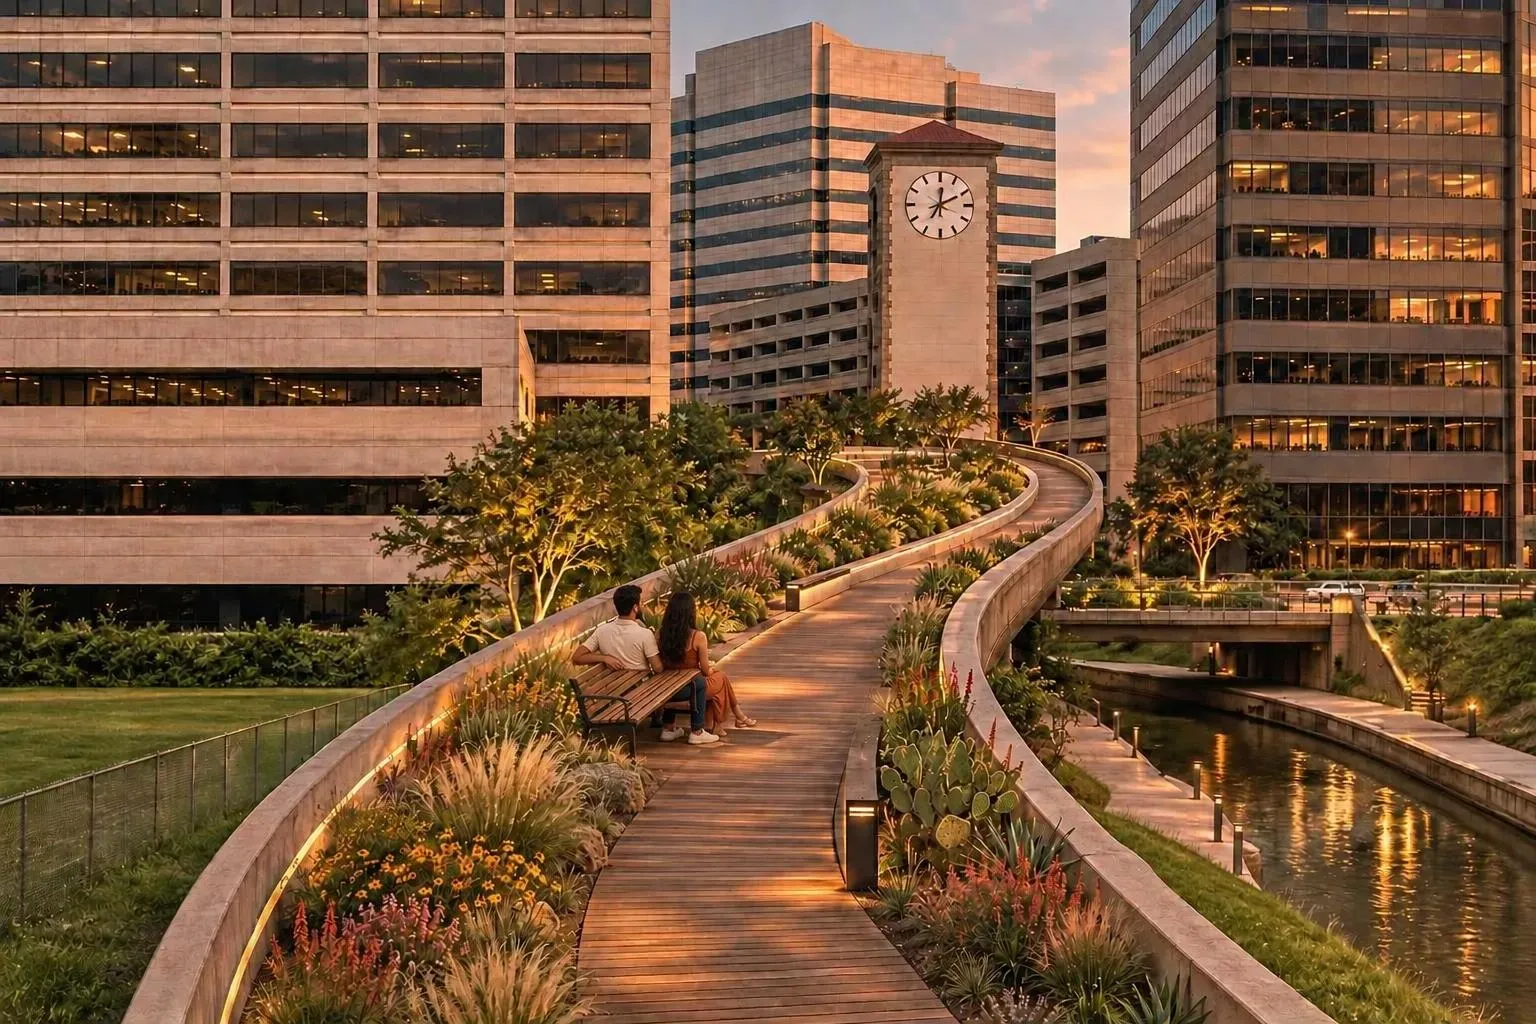
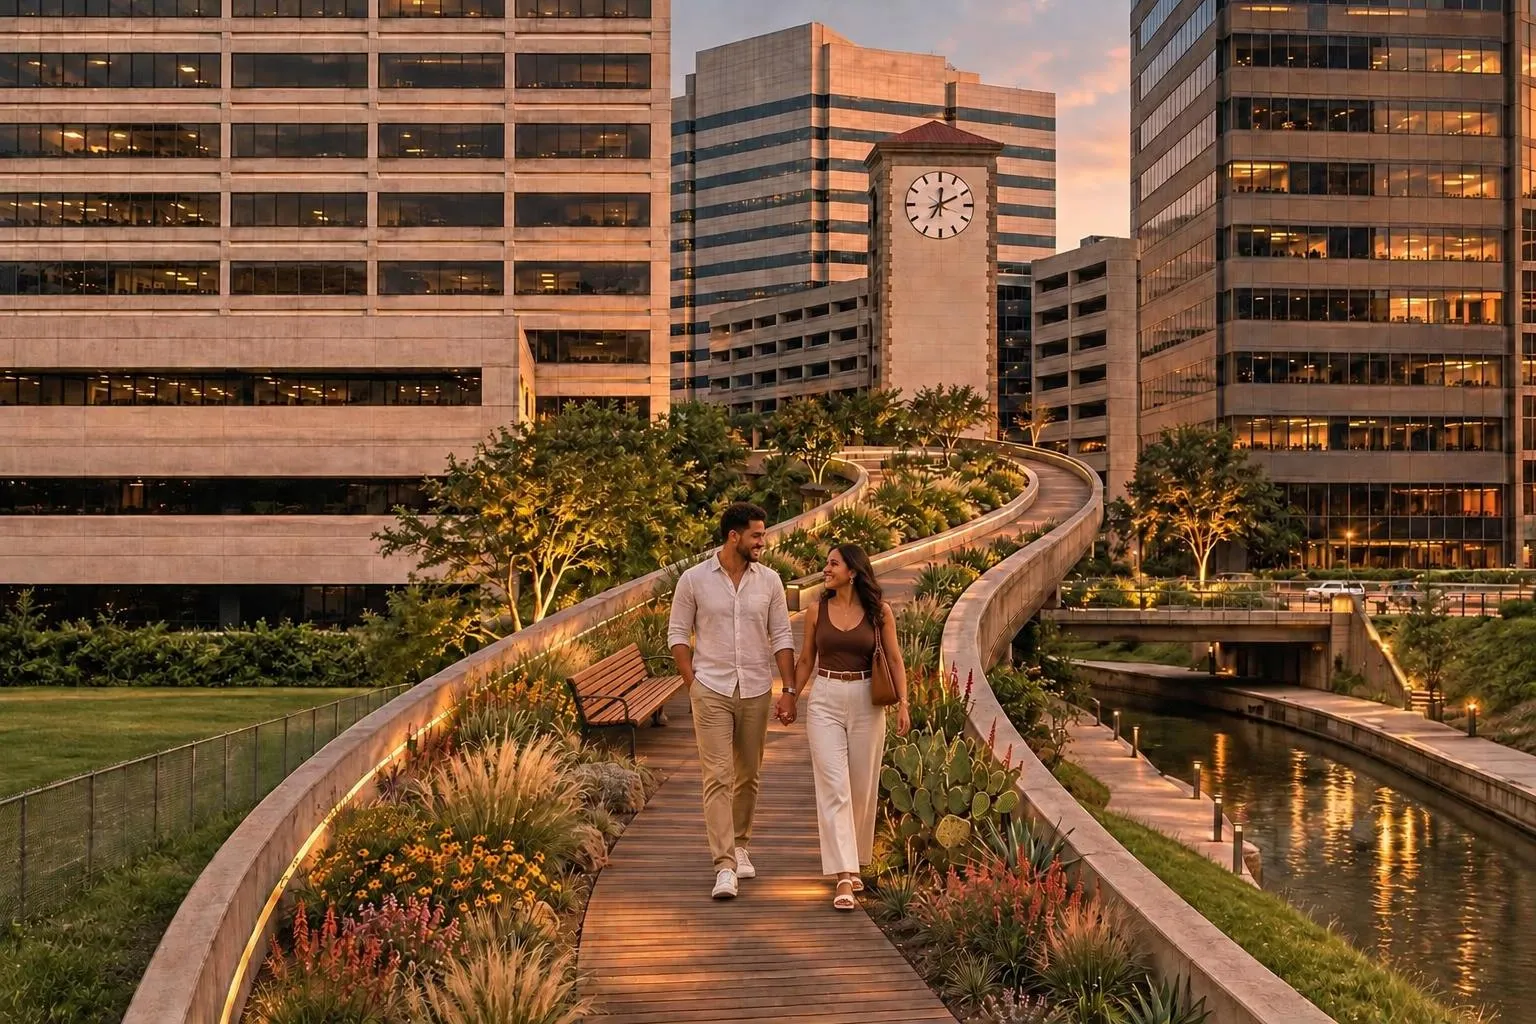
Slide 5: replace glitchy bench couple with walking couple

diff --git a/index.html b/index.html
@@ -75,7 +75,7 @@ section[id]{scroll-margin-top:70px}
 </style><link rel="icon" type="image/svg+xml" href="logo.svg"><link rel="icon" type="image/png" href="logo.png"></head><body>
 <nav><a class="brand" href="#top" aria-label="Project Sky-Path home"><svg xmlns="http://www.w3.org/2000/svg" viewBox="0 0 64 64" width="38" height="38" aria-hidden="true"><defs><linearGradient id="sk" x1="0" y1="0" x2="0" y2="1"><stop offset="0" stop-color="#7cc3e8"/><stop offset="1" stop-color="#f7d9a8"/></linearGradient></defs><rect width="38" height="38" aria-hidden="true" rx="14" fill="url(#sk)"/><circle cx="44" cy="22" r="9" fill="#f2a03d"/><path d="M6 44 C 20 30, 40 30, 58 38" fill="none" stroke="#1d2622" stroke-width="5" stroke-linecap="round"/><path d="M6 44 C 20 30, 40 30, 58 38" fill="none" stroke="#6fa05a" stroke-width="2.4" stroke-linecap="round" stroke-dasharray="1 5"/><path d="M17 38v18M32 33.5v22.5M47 34.5v21.5" stroke="#1d2622" stroke-width="3" stroke-linecap="round"/><path d="M27 31c-1-8 5-13 13-13-0 8-5 13-13 13z" fill="#5f7a55"/><path d="M27 31l9-9" stroke="#f5efe4" stroke-width="1.3" stroke-linecap="round"/></svg>
 <span><b>Sky-Path</b><small>The Texan Promenade</small></span></a><div class="spy"><a href="#opportunity" data-id="opportunity">Opportunity</a><a href="#vision" data-id="vision">Vision</a><a href="#design" data-id="design">Design</a><a href="#impact" data-id="impact">Impact</a><a href="#funding" data-id="funding">Funding</a><a href="#precedents" data-id="precedents">Precedents</a><a href="#petition" data-id="petition">Sign the petition</a><a href="#contact" data-id="contact">Get involved</a><i class="spybar"></i></div></nav>
-<header class="hero" id="top"><div class="car" id="car" aria-roledescription="carousel" aria-label="Sky-Path concept renderings"><div class="track"><figure aria-roledescription="slide" aria-label="1 of 5"><img src="img/carousel/c1.webp" alt="Sunrise joggers and a cyclist on the railed elevated walkway between office towers" fetchpriority="high"><figcaption>Morning on the path<br><span>Concept rendering</span></figcaption></figure><figure aria-roledescription="slide" aria-label="2 of 5"><img src="img/carousel/c2.webp" alt="Shade canopies along the path by Lake Carolyn" loading="lazy"><figcaption>Shade by the water<br><span>Concept rendering</span></figcaption></figure><figure aria-roledescription="slide" aria-label="3 of 5"><img src="img/carousel/c3.webp" alt="Aerial dusk view of the walkway curving over the Mandalay Canal under string lights" loading="lazy"><figcaption>Evenings over the canal<br><span>Concept rendering</span></figcaption></figure><figure aria-roledescription="slide" aria-label="4 of 5"><img src="img/carousel/c4.webp" alt="Former APT station turned plaza with stairs and glass elevator" loading="lazy"><figcaption>Station plaza<br><span>Concept rendering</span></figcaption></figure><figure aria-roledescription="slide" aria-label="5 of 5"><img src="img/carousel/c5.webp" alt="Evening bench overlook by the clock tower" loading="lazy"><figcaption>The overlook<br><span>Concept rendering</span></figcaption></figure></div><button class="arr prev" aria-label="Previous slide">‹</button><button class="arr next" aria-label="Next slide">›</button><div class="dots"></div></div><div class="htxt"><div class="eyebrow">Concept · Las Colinas Urban Center · Irving, TX</div>
+<header class="hero" id="top"><div class="car" id="car" aria-roledescription="carousel" aria-label="Sky-Path concept renderings"><div class="track"><figure aria-roledescription="slide" aria-label="1 of 5"><img src="img/carousel/c1.webp" alt="Sunrise joggers and a cyclist on the railed elevated walkway between office towers" fetchpriority="high"><figcaption>Morning on the path<br><span>Concept rendering</span></figcaption></figure><figure aria-roledescription="slide" aria-label="2 of 5"><img src="img/carousel/c2.webp" alt="Shade canopies along the path by Lake Carolyn" loading="lazy"><figcaption>Shade by the water<br><span>Concept rendering</span></figcaption></figure><figure aria-roledescription="slide" aria-label="3 of 5"><img src="img/carousel/c3.webp" alt="Aerial dusk view of the walkway curving over the Mandalay Canal under string lights" loading="lazy"><figcaption>Evenings over the canal<br><span>Concept rendering</span></figcaption></figure><figure aria-roledescription="slide" aria-label="4 of 5"><img src="img/carousel/c4.webp" alt="Former APT station turned plaza with stairs and glass elevator" loading="lazy"><figcaption>Station plaza<br><span>Concept rendering</span></figcaption></figure><figure aria-roledescription="slide" aria-label="5 of 5"><img src="img/carousel/c5.webp" alt="Couple walking the elevated path near the clock tower" loading="lazy"><figcaption>The overlook<br><span>Concept rendering</span></figcaption></figure></div><button class="arr prev" aria-label="Previous slide">‹</button><button class="arr next" aria-label="Next slide">›</button><div class="dots"></div></div><div class="htxt"><div class="eyebrow">Concept · Las Colinas Urban Center · Irving, TX</div>
 <h1>Project Sky-Path<br>The Texan Promenade</h1>
 <p>Turning the abandoned Las Colinas APT people-mover guideway into an elevated park above the Urban Center: shaded, native and walkable.</p>
 <div class="stats"><div><strong class="cnt" data-to="1.4" data-dec="1" data-suf=" mi">1.4 mi</strong>guideway</div><div><strong class="cnt" data-to="4">4</strong>stations</div><div><strong class="cnt" data-to="2020" data-nofmt="1">2020</strong>closed</div><div><strong class="cnt" data-to="0.35" data-dec="2" data-suf=" mi">0.35 mi</strong>pilot segment</div></div></div></header>
@@ -148,7 +148,7 @@ section[id]{scroll-margin-top:70px}
 <div class="thanks" id="thanks" hidden><svg class="ic" viewBox="0 0 48 48" fill="none" stroke="#5f7a55" stroke-width="2.4" stroke-linecap="round" stroke-linejoin="round" aria-hidden="true"><circle cx="24" cy="24" r="18" fill="#e9f0e4"/><path d="m16 24 6 6 11-12"/></svg><h3>Thank you for signing!</h3><p>Your name helps show there's real support for Sky-Path. Please share this page with a neighbor or coworker.</p></div>
 </div></section>
 <section id="contact" class="cta reveal"><div class="eyebrow">Get involved</div><h2>Interested in Sky-Path?</h2>
-<div class="wide" style="margin:2rem 0"><img src="img/carousel/c5.webp" alt="Concept rendering of an evening bench overlook by the clock tower" loading="lazy"></div>
+<div class="wide" style="margin:2rem 0"><img src="img/carousel/c5.webp" alt="Concept rendering of a couple walking the elevated path near the clock tower" loading="lazy"></div>
 <p class="lead" style="margin:0 auto 2rem">Council members, property owners and prospective sponsors: we'd like to hear from you.</p>
 <a class="btn" href="mailto:jeff.cott100@gmail.com?subject=Project%20Sky-Path%20interest">Express interest</a></section>
 <footer>Project Sky-Path is an independent concept proposal. Renderings are illustrative concept visualizations.<br>Photo credits: “Las Colinas APT” by Ansem27 via Wikimedia Commons (<a href="https://creativecommons.org/licenses/by-sa/3.0/">CC BY-SA 3.0</a>); “LasColinasAPT02” and “LasColinasAPT03” by Payton Chung via Wikimedia Commons (<a href="https://creativecommons.org/licenses/by/2.0/">CC BY 2.0</a>). Photos resized. Renderings are based on these photos.</footer>
